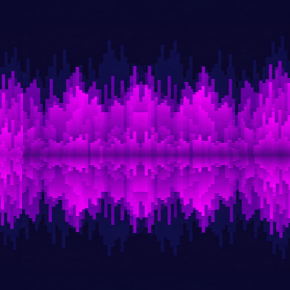
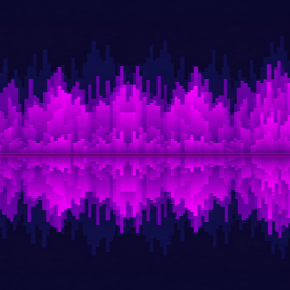
Many small improvements
-bigger container
-nicer container background
-computer icon click area for animation(for next update)

diff --git a/subpages/subpage_setup_pc_compenents/setup_pc_compenents.html b/subpages/subpage_setup_pc_compenents/setup_pc_compenents.html
@@ -16,13 +16,13 @@
                 <div class="slides pc-slides">
                     <div class="slide active">
                         <h2>Overview</h2>
-                        <h4>Build Year</h4>
+                        <h4>Build Year:</h4>
                         <p>Build: September 2021(4 years old)</p>
-                        <h4>Estimated Value</h4>
+                        <h4>Estimated Value:</h4>
                         <p>1200€</p>
-                        <h4>Purpose</h4>
+                        <h4>Purpose:</h4>
                         <p>Gaming, Dev, Editing</p>
-                        <h4>OS</h4>
+                        <h4>OS:</h4>
                         <p>Arch Linux</p>
                         <!-- <img class="arch-icon" src="setup_pc_compenents_images/Arch Icon.png"> -->
                     </div>
@@ -34,22 +34,22 @@
 
                         <div class="components-grid">
                             <div class="left">
-                                <h4>PC Case</h4>
+                                <h4>PC Case:</h4>
                                 <p>Sharkoon elite shark CA300T white</p>
-                                <h4>Mainboard</h4>
+                                <h4>Mainboard:</h4>
                                 <p>Gigabyte B550 aorus elite v2</p>
-                                <h4>CPU</h4>
+                                <h4>CPU:</h4>
                                 <p>AMD Ryzen 7 3700x</p>
-                                <h4>GPU</h4>
+                                <h4>GPU:</h4>
                                 <p>Gainward GeForce RTX 3060 12GB</p>
                             </div>
                             <div class="right">
-                                <h4>RAM</h4>
+                                <h4>RAM:</h4>
                                 <p>32GB DDR4 3200MHz</p>
-                                <h4>Drives</h4>
+                                <h4>Drives:</h4>
                                 <p>System Drive: 500GB Samsung M.2 SSD</p>
                                 <p>Gaming Drive: 8TB Samsung SATA SSD</p>
-                                <h4>Power Supply</h4>
+                                <h4>Power Supply:</h4>
                                 <p>Be quiet Straight Power 11 650W</p>
                             </div>
                         </div>
@@ -58,25 +58,25 @@
                         <h2>Cooling and Noise</h2>
                         <div class="cooling-grid">
                             <div class="cooling-col">
-                                <h4>Water cooling (AIO)</h4>
+                                <h4>Water cooling (AIO):</h4>
                                 <p>NZXT Kraken X73 360mm</p>
-                                <h4>Number of fans</h4>
+                                <h4>Number of fans:</h4>
                                 <p>7</p>
                             </div>
                             <div class="cooling-col">
-                                <h4>Idle Temperature</h4>
+                                <h4>Idle Temperature:</h4>
                                 <p>CPU on AVG:</p>
                                 <p>GPU on AVG:</p>
-                                <h4>Gaming Temperature</h4>
+                                <h4>Gaming Temperature:</h4>
                                 <p>CPU on AVG:</p>
                                 <p>GPU on AVG:</p>
                             </div>
                             <div class="cooling-col">
-                                <h4>Idle Noise</h4>
+                                <h4>Idle Noise:</h4>
                                 <p>MIN: 20.0 dB</p>
                                 <p>AVG: 23.4 dB</p>
                                 <p>MAX: 26.0 dB</p>
-                                <h4>Gaming Noise</h4>
+                                <h4>Gaming Noise:</h4>
                                 <p>MIN: dB</p>
                                 <p>AVG: dB</p>
                                 <p>MAX: dB</p>
@@ -87,13 +87,13 @@
                     <h2>PC Benchmarks</h2>
                     <div class="benchmark-grid">
                         <div class="benchmark-col">
-                            <h4>CPU Benchmarks</h4>
+                            <h4>CPU Benchmarks:</h4>
                             <p>Cinebench R23 (Single):</p>
                             <p>Cinebench R23 (Multi):</p>
                             <p>Geekbench 6:</p>
                         </div>
                         <div class="benchmark-col">
-                            <h4>GPU Benchmarks</h4>
+                            <h4>GPU Benchmarks:</h4>
                             <p>3DMark Time Spy:</p>
                             <p>3DMark Fire Strike:</p>
                             <p>Unigine Superposition:</p>
@@ -104,21 +104,27 @@
                     <h2>Gaming Performance</h2>
                     <div class="gaming-grid">
                         <div class="game-col">
-                            <h4>Cyberpunk 2077</h4>
+                            <h4>Cyberpunk 2077:</h4>
                             <p>1440p | High</p>
+                            <p>MIN FPS:</p>
                             <p>AVG FPS:</p>
+                            <p>MAX FPS:</p>
                             <p>1% Low:</p>
                         </div>
                         <div class="game-col">
-                            <h4>Doom: The Dark Ages</h4>
+                            <h4>Doom: The Dark Ages:</h4>
                             <p>1440p | Ultra</p>
+                            <p>MIN FPS:</p>
                             <p>AVG FPS:</p>
+                            <p>MAX FPS:</p>
                             <p>1% Low:</p>
                         </div>
                         <div class="game-col">
-                            <h4>Portal</h4>
+                            <h4>Portal:</h4>
                             <p>1440p | Max</p>
+                            <p>MIN FPS:</p>
                             <p>AVG FPS:</p>
+                            <p>MAX FPS:</p>
                             <p>1% Low:</p>
                         </div>
                     </div>
@@ -141,7 +147,7 @@
 
                             <div class="slide">
                                 <h2>Monitors</h2>
-                                <h4>3× Monitor Setup</h4>
+                                <h4>3× Monitor Setup:</h4>
                                 <p>Main: 27\" 1440p 165Hz</p>
                                 <p>Left: 27\" 1440p 144Hz</p>
                                 <p>Right: 24\" 1080p</p>
@@ -188,6 +194,7 @@
             <a href="subpages/subpage_setup_pc_compenents/setup_pc_compenents.html">
                     <img class="computer-icon-taskbar" src="setup_pc_compenents_images/setup and pc compenents.png">
                 </a>
+                <div id="computer-icon-area"></div>
             <div class="taskbar-items">
                 <!-- Adding soon links, apps -->
             </div>

diff --git a/subpages/subpage_setup_pc_compenents/setup_pc_compenents.css b/subpages/subpage_setup_pc_compenents/setup_pc_compenents.css
@@ -3,7 +3,7 @@ body {
     padding: 120px 0 0 0;
     font-family: Arial, sans-serif;
     background: #0f0f0f;
-    color: rgb(109, 0, 199);
+    color: rgb(115, 167, 245);
     justify-content: center;
     align-items: flex-start;
     background-image: url("setup_pc_compenents_images/half\ life\ background.jpg");
@@ -44,6 +44,15 @@ body {
     
 }
 
+.container:hover {
+    transform: translateY(-4px);
+
+    box-shadow:
+        inset 2px 2px 0 rgba(255,255,255,0.4),
+        inset -2px -2px 0 rgba(0,0,0,0.6),
+        0 12px 22px rgba(0,0,0,0.6);
+}
+
 .setup-container {
   bottom: 300px;
 }
@@ -61,22 +70,25 @@ h1 {
 h2 {
     text-align: center;
     font-family: 'Lucida Console', monospace;
+    background: rgba(0,0,0,0.45);
+    margin: 0;
+    padding: 0.5em;
 }
 
 p {
     line-height: 1.6;
     font-size: 1.05rem;
     font-family: 'Lucida Console', monospace;
-    background: rgba(5, 172, 238, 0.411);
-    background-color: rgba(5, 172, 238, 0.411);
     margin: 0;
     padding: 0.5em;
+    background: rgba(0,0,0,0.45);
 }
 
 h4 {
-  background: rgba(5, 172, 238, 0.411);
   margin: 0;
     padding: 0.5em;
+    background: rgba(0,0,0,0.45);
+    text-decoration: underline;
 }
 
 .slides {
@@ -98,6 +110,7 @@ border-style: dotted;
 
 .slide.active {
 display: block;
+height: 1301px;
 }
 
 .components-grid {
@@ -249,6 +262,17 @@ background: #7f0090;
     transform-origin: center;
 }
 
+#computer-icon-area {
+  position: absolute;
+    bottom: 3px;
+    left: 100px;
+    height: 52px;
+    width: 52px;
+    background: transparent;
+    cursor: pointer;
+}
+
+
 .computer-icon-taskbar:hover {
     animation: icon-jump-spin 0.7s ease-in-out forwards;
 }
@@ -340,10 +364,10 @@ background: #7f0090;
 
 #soundArea {
   position: absolute;
-  top: 20px;
-  left: 20px; 
-  width: 500px;
-  height: 500px;
+  top: 280px;
+  left: 120px; 
+  width: 400px;
+  height: 750px;
   z-index: 1;
   background: transparent;
   cursor: pointer;

diff --git a/index.html b/index.html
@@ -44,7 +44,7 @@
                         <h1>⋆˚꩜｡ ♌About me♌ ꉂ(˵˃ ᗜ ˂˵)</h1>
                         <p>ᯓ★ WELCOME TO MY ABOUT ME WEBSITE! ★ᯓ<br>Here you see things that you never experienced on other websites.</p>
                         <div class="container_about_me_inner_description">
-                        <p style="border-right: 5px dotted; text-align: left;">My real name is Lennard I am 19 years young, I am a German programmer and I really like gaming (who doesn't?) and watching anime. My languages I can speak are German, English and Russian.
+                        <p style="border-right: 5px dotted; text-align: left; margin-left: 10px;">My real name is Lennard I am 19 years young, I am a German programmer and I really like gaming (who doesn't?) and watching anime. My languages I can speak are German, English and Russian.
                             I love educating myself and am thirsty for knowledge and now, during my unemployment, I have started a new project: designing my own website exactly how I want it.
                             This site is still really young and in the future I will add lots of things I like to this website and someday I will look back on this beautiful work of art.</p>
                             <div class="discription-icons">
@@ -165,6 +165,7 @@
             <a href="subpages/subpage_setup_pc_compenents/setup_pc_compenents.html">
                     <img class="computer-icon-taskbar" src="about_me_images/setup and pc compenents.png">
                 </a>
+                <div id="computer-icon-area"></div>
             <div class="system-tray">
                 <!-- Adding soon something -->
                  <img class="mettaton" src="https://media.tenor.com/qhHjW0xdhdIAAAAi/pixel-sitting.gif">

diff --git a/about_leokasuki.css b/about_leokasuki.css
@@ -191,7 +191,7 @@ body {
     align-items: center;
     gap: 20px;
     background: rgba(145, 27, 255, 0.5);
-    width: 700px;
+    width: 900px;
 }
 
 .container_hobbies {
@@ -321,7 +321,7 @@ p {
     align-items: flex-start;
     gap: 40px;
     height: 1700px;
-    width: 1400px;
+    width: 1800px;
     background-color: #fff;
     background: transparent;
     left: 20%;
@@ -423,6 +423,16 @@ p {
     border-radius: 3px;
     background: #671f72;
     transform-origin: center;
+}
+
+#computer-icon-area {
+  position: absolute;
+    bottom: 3px;
+    left: 100px;
+    height: 52px;
+    width: 52px;
+    background: transparent;
+    cursor: pointer;
 }
 
 .computer-icon-taskbar:hover {
